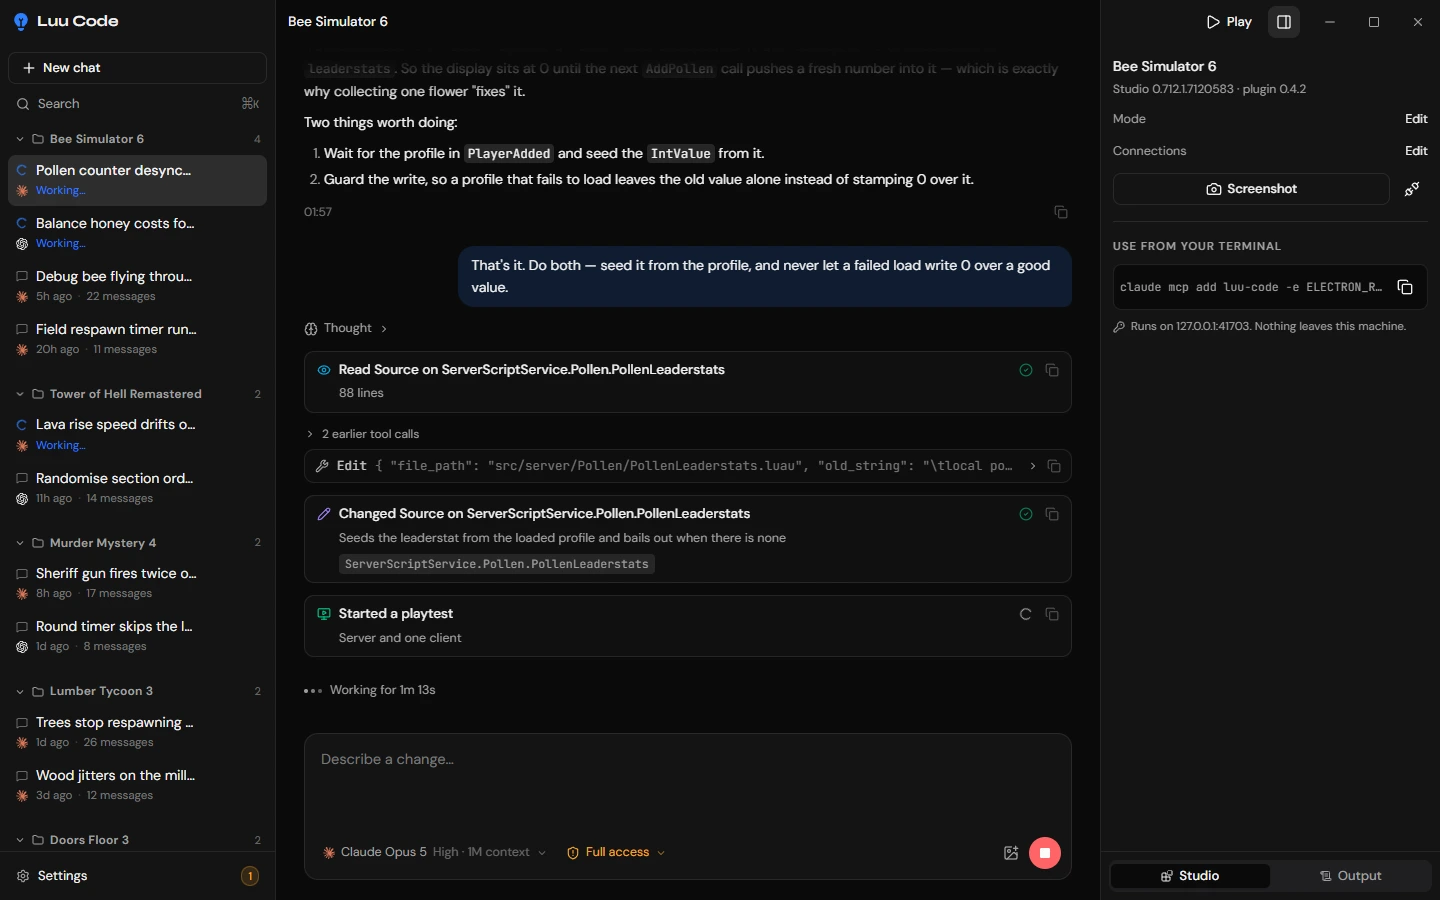
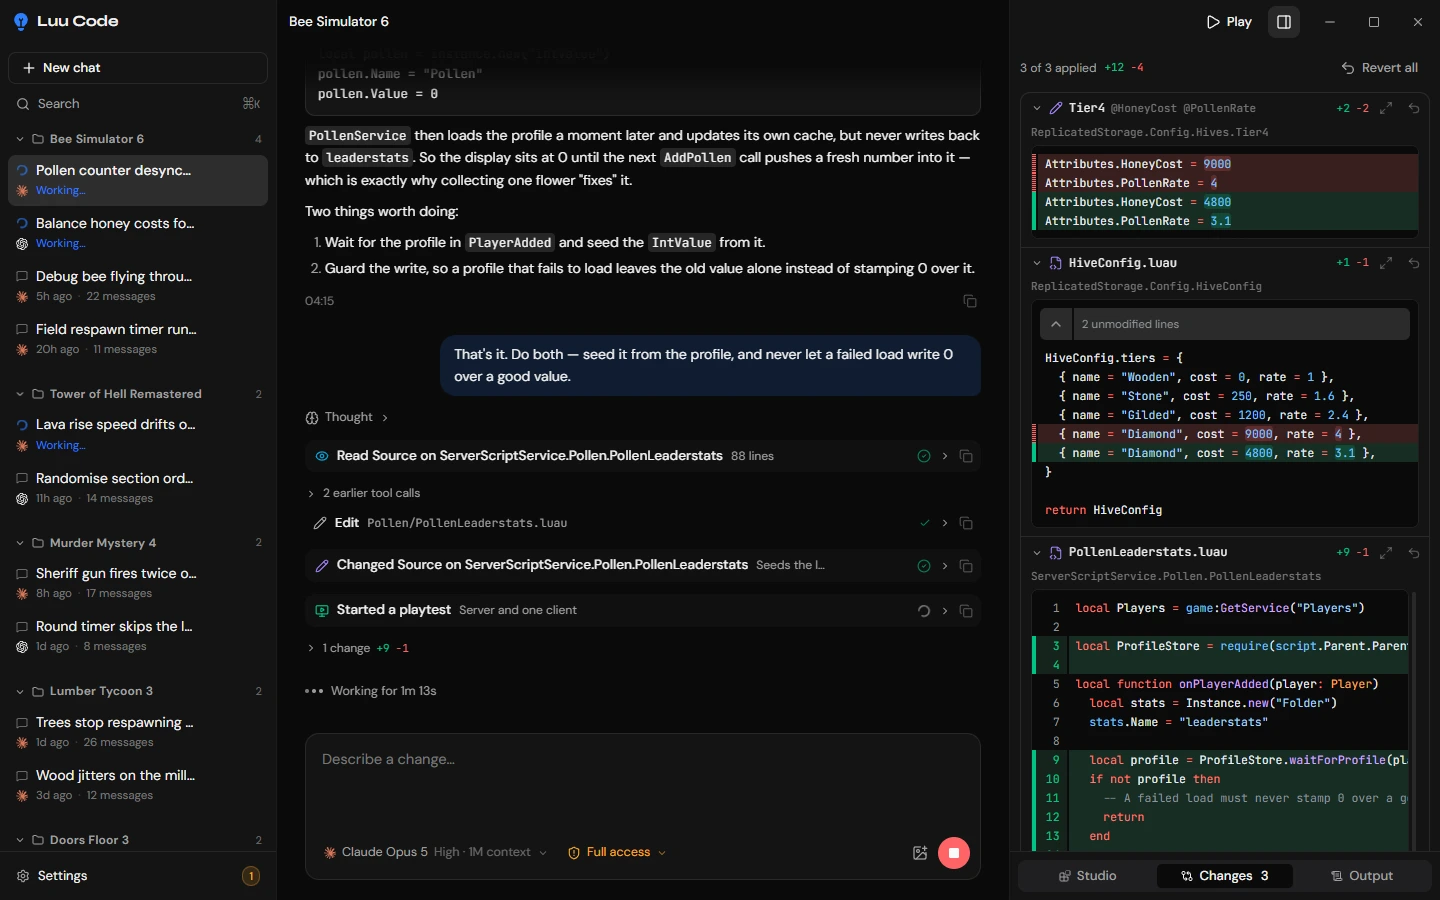
feat: enhance screenshot functionality with tab selection and update README

diff --git a/packages/app/screenshots/README.md b/packages/app/screenshots/README.md
@@ -19,7 +19,13 @@ node screenshots/shoot.mjs --out=../../assets/screenshot.webp
 ```
 
 Other flags: `--width=`, `--height=`, `--scale=`, `--quality=`, `--settle=` (ms
-before the shutter — raise it if a font or spinner is not ready).
+before the shutter — raise it if a font or spinner is not ready), and `--tab=`
+(`studio`, `changes`, or `output` — which dock tab is open; `changes` by
+default).
+
+Which tab is open is React state rather than anything the fake bridge can
+declare, so `--tab=` clicks the switcher. A tab that is not there is an error,
+not a shot of the wrong panel.
 
 **The extension picks the format.** `.webp` is encoded by the Chromium already
 running, so there is no `sharp` and no native dependency in a folder whose whole
@@ -45,6 +51,12 @@ when that happens. `--scale=2 --width=940 --height=500` fits, and gives 1880x100
   the answer under it, and one still running with its thinking, Roblox
   operations, and tool calls open, plus the live clock. Real tool names, real
   Luau, no screenshots.
+- **The dock on Changes**, holding three diffs the place has taken: two from the
+  honey-balancing chat and one from the open one, because the journal is per
+  Studio window rather than per conversation. They start open, so the panel is a
+  stack of real diffs rather than a list of rows.
+- **One of them under the live turn** as well, as the "1 change" fold — the same
+  record, read from the conversation's own copy.
 - **Codex one version behind**, so the amber count on the Settings button and
   the Providers tab is visible rather than something you have to describe.
 

diff --git a/README.md b/README.md
@@ -1,6 +1,5 @@
 <div align="center">
-  <img src="assets/banner.png" alt="Luu Code" width="900">
-  <img src="assets/screenshot.webp" alt="Luu Code: a Roblox place open in the sidebar, an agent mid-turn editing a script and starting a playtest, and Studio's state in the panel beside it" width="900">
+  <img src="assets/screenshot.webp" alt="Luu Code: a Roblox place open in the sidebar, an agent mid-turn editing a script and starting a playtest, and the diffs it has made to the place in the panel beside it" width="900">
 </div>
 
 <div align="center">
